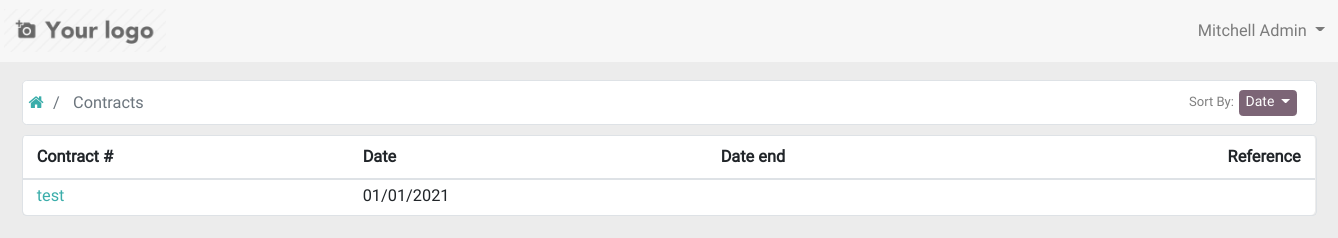
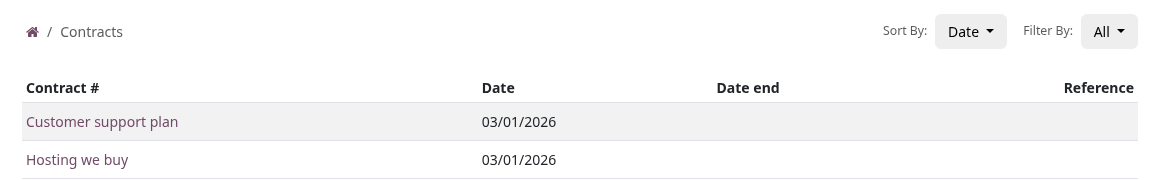
[IMP] contract: split customer and supplier contracts on the portal
The portal showed a single "Contracts" entry with no description under it,
and behind it one list mixing the contracts we invoice the partner for with
the ones the partner invoices us for. A partner that is on both sides had to
read the whole list to work out which was which.

Follow what account and purchase already do for invoices and orders: one
entry per side, in the category that side belongs to.

- "Your Contracts" in portal_client_category, counting sale contracts
- "Our Contracts" in portal_vendor_category, counting purchase contracts

Both carry the description line every other entry has, and both are hidden
when their count is zero, so a partner that only buys never sees a supplier
entry. Behind them the list gets the usual "Filter By" control, so the entry
opens straight into its own side and the reader can still switch.

diff --git a/contract/static/description/index.html b/contract/static/description/index.html
@@ -439,7 +439,11 @@ price list and lines when creating a contract. To use it, just select
 the template on the contract and fields will be filled automatically.</li>
 </ol>
 <ul class="simple">
-<li>Contracts appear in portal to following users in every contract:</li>
+<li>Contracts appear in portal to following users in every contract.
+Customer contracts are listed under <em>Your Contracts</em> and supplier
+contracts under <em>Our Contracts</em>, so a partner that is both never has
+to read one list to find the other. An entry only shows up when that
+partner actually has contracts of that kind:</li>
 </ul>
 <p><img alt="image" src="https://raw.githubusercontent.com/OCA/contract/19.0/contract/static/src/screenshots/portal-my.png" /></p>
 <p><img alt="image1" src="https://raw.githubusercontent.com/OCA/contract/19.0/contract/static/src/screenshots/portal-list.png" /></p>

diff --git a/contract/controllers/main.py b/contract/controllers/main.py
@@ -12,14 +12,24 @@ from odoo.addons.portal.controllers.portal import pager as portal_pager
 class PortalContract(CustomerPortal):
     def _prepare_home_portal_values(self, counters):
         values = super()._prepare_home_portal_values(counters)
-        if "contract_count" in counters:
-            contract_model = request.env["contract.contract"]
-            contract_count = (
-                contract_model.search_count([])
-                if contract_model.has_access("read")
+        wanted = {
+            counter: contract_type
+            for counter, contract_type in (
+                ("contract_count", "sale"),
+                ("supplier_contract_count", "purchase"),
+            )
+            if counter in counters
+        }
+        if not wanted:
+            return values
+        contract_model = request.env["contract.contract"]
+        readable = contract_model.has_access("read")
+        for counter, contract_type in wanted.items():
+            values[counter] = (
+                contract_model.search_count([("contract_type", "=", contract_type)])
+                if readable
                 else 0
             )
-            values["contract_count"] = contract_count
         return values
 
     def _contract_get_page_view_values(self, contract, access_token, **kwargs):
@@ -34,6 +44,19 @@ class PortalContract(CustomerPortal):
     def _get_filter_domain(self, kw):
         return []
 
+    def _get_contract_searchbar_filters(self):
+        return {
+            "all": {"label": request.env._("All"), "domain": []},
+            "customer": {
+                "label": request.env._("Your Contracts"),
+                "domain": [("contract_type", "=", "sale")],
+            },
+            "supplier": {
+                "label": request.env._("Our Contracts"),
+                "domain": [("contract_type", "=", "purchase")],
+            },
+        }
+
     @http.route(
         ["/my/contracts", "/my/contracts/page/<int:page>"],
         type="http",
@@ -41,14 +64,23 @@ class PortalContract(CustomerPortal):
         website=True,
     )
     def portal_my_contracts(
-        self, page=1, date_begin=None, date_end=None, sortby=None, **kw
+        self,
+        page=1,
+        date_begin=None,
+        date_end=None,
+        sortby=None,
+        filterby=None,
+        **kw,
     ):
         values = self._prepare_portal_layout_values()
         contract_obj = request.env["contract.contract"]
         # Avoid error if the user does not have access.
         if not contract_obj.has_access("read"):
             return request.redirect("/my")
-        domain = self._get_filter_domain(kw)
+        searchbar_filters = self._get_contract_searchbar_filters()
+        if not filterby or filterby not in searchbar_filters:
+            filterby = "all"
+        domain = self._get_filter_domain(kw) + searchbar_filters[filterby]["domain"]
         searchbar_sortings = {
             "date": {
                 "label": request.env._("Date"),
@@ -70,6 +102,7 @@ class PortalContract(CustomerPortal):
                 "date_begin": date_begin,
                 "date_end": date_end,
                 "sortby": sortby,
+                "filterby": filterby,
             },
             total=contract_count,
             page=page,
@@ -89,6 +122,8 @@ class PortalContract(CustomerPortal):
                 "default_url": "/my/contracts",
                 "searchbar_sortings": searchbar_sortings,
                 "sortby": sortby,
+                "searchbar_filters": searchbar_filters,
+                "filterby": filterby,
             }
         )
         return request.render("contract.portal_my_contracts", values)

diff --git a/contract/tests/test_portal.py b/contract/tests/test_portal.py
@@ -1,6 +1,8 @@
 # Copyright 2020 Tecnativa - Víctor Martínez
 # License LGPL-3.0 or later (http://www.gnu.org/licenses/lgpl)
 
+import json
+
 from odoo import http
 from odoo.tests import HttpCase, tagged
 from odoo.tools import mute_logger
@@ -31,3 +33,43 @@ class TestContractPortal(HttpCase, BaseCommon):
         self.assertEqual(self.url_open(url=url_contract).status_code, 200)
         contract.message_unsubscribe(partner_ids=user_portal.partner_id.ids)
         self.assertEqual(self.url_open(url=url_contract).status_code, 200)
+
+    def test_portal_contract_type_split(self):
+        partner = self.env["res.partner"].create({"name": "partner both sides"})
+        customer, supplier = self.env["contract.contract"].create(
+            [
+                {
+                    "name": "Customer Contract",
+                    "partner_id": partner.id,
+                    "contract_type": "sale",
+                },
+                {
+                    "name": "Supplier Contract",
+                    "partner_id": partner.id,
+                    "contract_type": "purchase",
+                },
+            ]
+        )
+        (customer | supplier).message_subscribe(partner_ids=partner.ids)
+        self._create_new_portal_user(
+            partner_id=partner.id, login="portal_split", password="portal_split"
+        )
+        self.authenticate("portal_split", "portal_split")
+        http.root.session_store.save(self.session)
+
+        counters = self.url_open(
+            url="/my/counters",
+            data=json.dumps(
+                {"params": {"counters": ["contract_count", "supplier_contract_count"]}}
+            ),
+            headers={"Content-Type": "application/json"},
+        ).json()["result"]
+        self.assertEqual(counters["contract_count"], 1)
+        self.assertEqual(counters["supplier_contract_count"], 1)
+
+        customer_page = self.url_open(url="/my/contracts?filterby=customer").text
+        self.assertIn(customer.name, customer_page)
+        self.assertNotIn(supplier.name, customer_page)
+        supplier_page = self.url_open(url="/my/contracts?filterby=supplier").text
+        self.assertIn(supplier.name, supplier_page)
+        self.assertNotIn(customer.name, supplier_page)

diff --git a/contract/README.rst b/contract/README.rst
@@ -90,7 +90,11 @@ Usage
    price list and lines when creating a contract. To use it, just select
    the template on the contract and fields will be filled automatically.
 
-- Contracts appear in portal to following users in every contract:
+- Contracts appear in portal to following users in every contract.
+  Customer contracts are listed under *Your Contracts* and supplier
+  contracts under *Our Contracts*, so a partner that is both never has
+  to read one list to find the other. An entry only shows up when that
+  partner actually has contracts of that kind:
 
 |image|
 

diff --git a/contract/readme/USAGE.md b/contract/readme/USAGE.md
@@ -29,7 +29,11 @@
     just select the template on the contract and fields will be filled
     automatically.
 
-- Contracts appear in portal to following users in every contract:
+- Contracts appear in portal to following users in every contract.
+  Customer contracts are listed under *Your Contracts* and supplier
+  contracts under *Our Contracts*, so a partner that is both never has to
+  read one list to find the other. An entry only shows up when that partner
+  actually has contracts of that kind:
 
 ![image](../static/src/screenshots/portal-my.png)
 
